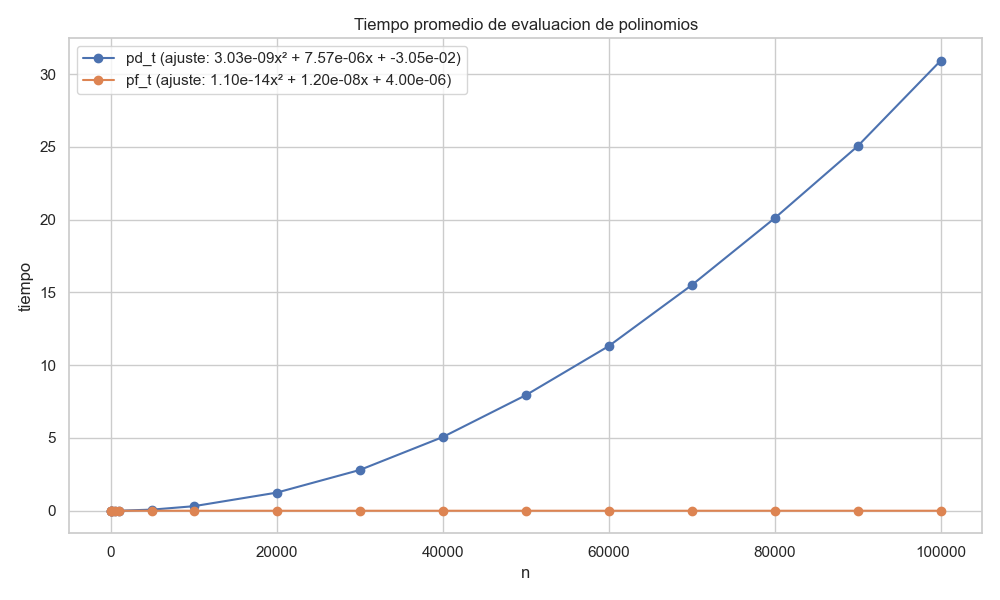
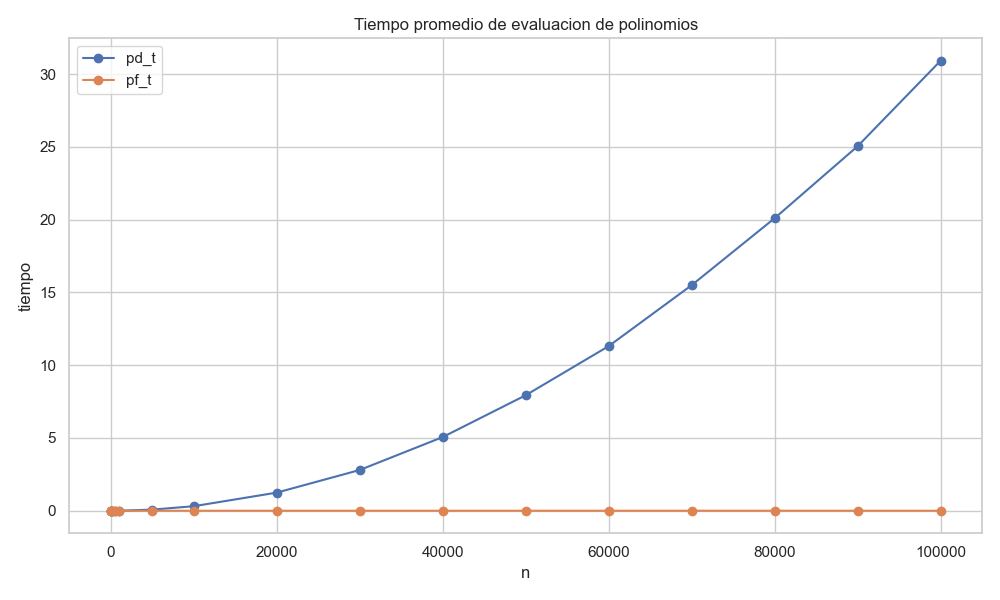
Remove polynomial fitting from plots in lab03.py and lab03b.py

Changed region(s): [[0.155, 0.06, 0.465, 0.15]]

diff --git a/python/lab03.py b/python/lab03.py
@@ -62,12 +62,8 @@ for alg in ['is_t', 'ss_t', 'bs_t']:
     x = df_promedios["n"].values
     y = df_promedios[alg].values
 
-    # Ajuste polinómico de grado 2
-    coef = np.polyfit(x, y, 2)
-    eq = f"{coef[0]:.2e}x² + {coef[1]:.2e}x + {coef[2]:.2e}"
-
-    # Solo graficar los puntos originales, con la ecuación en la leyenda
-    plt.plot(x, y, 'o-', label=f"{alg} (ajuste: {eq})")
+    # Solo graficar los puntos originales
+    plt.plot(x, y, 'o-', label=f"{alg}")
 
 plt.xlabel("n")
 plt.ylabel("tiempo")

diff --git a/python/lab03b.py b/python/lab03b.py
@@ -61,12 +61,8 @@ for alg in ['pd_t', 'pf_t']:
     x = df_promedios["n"].values
     y = df_promedios[alg].values
 
-    # Ajuste polinómico de grado 2
-    coef = np.polyfit(x, y, 2)
-    eq = f"{coef[0]:.2e}x² + {coef[1]:.2e}x + {coef[2]:.2e}"
-
-    # Solo graficar los puntos originales, con la ecuación en la leyenda
-    plt.plot(x, y, 'o-', label=f"{alg} (ajuste: {eq})")
+    # Solo graficar los puntos originales
+    plt.plot(x, y, 'o-', label=f"{alg}")
 
 plt.xlabel("n")
 plt.ylabel("tiempo")
